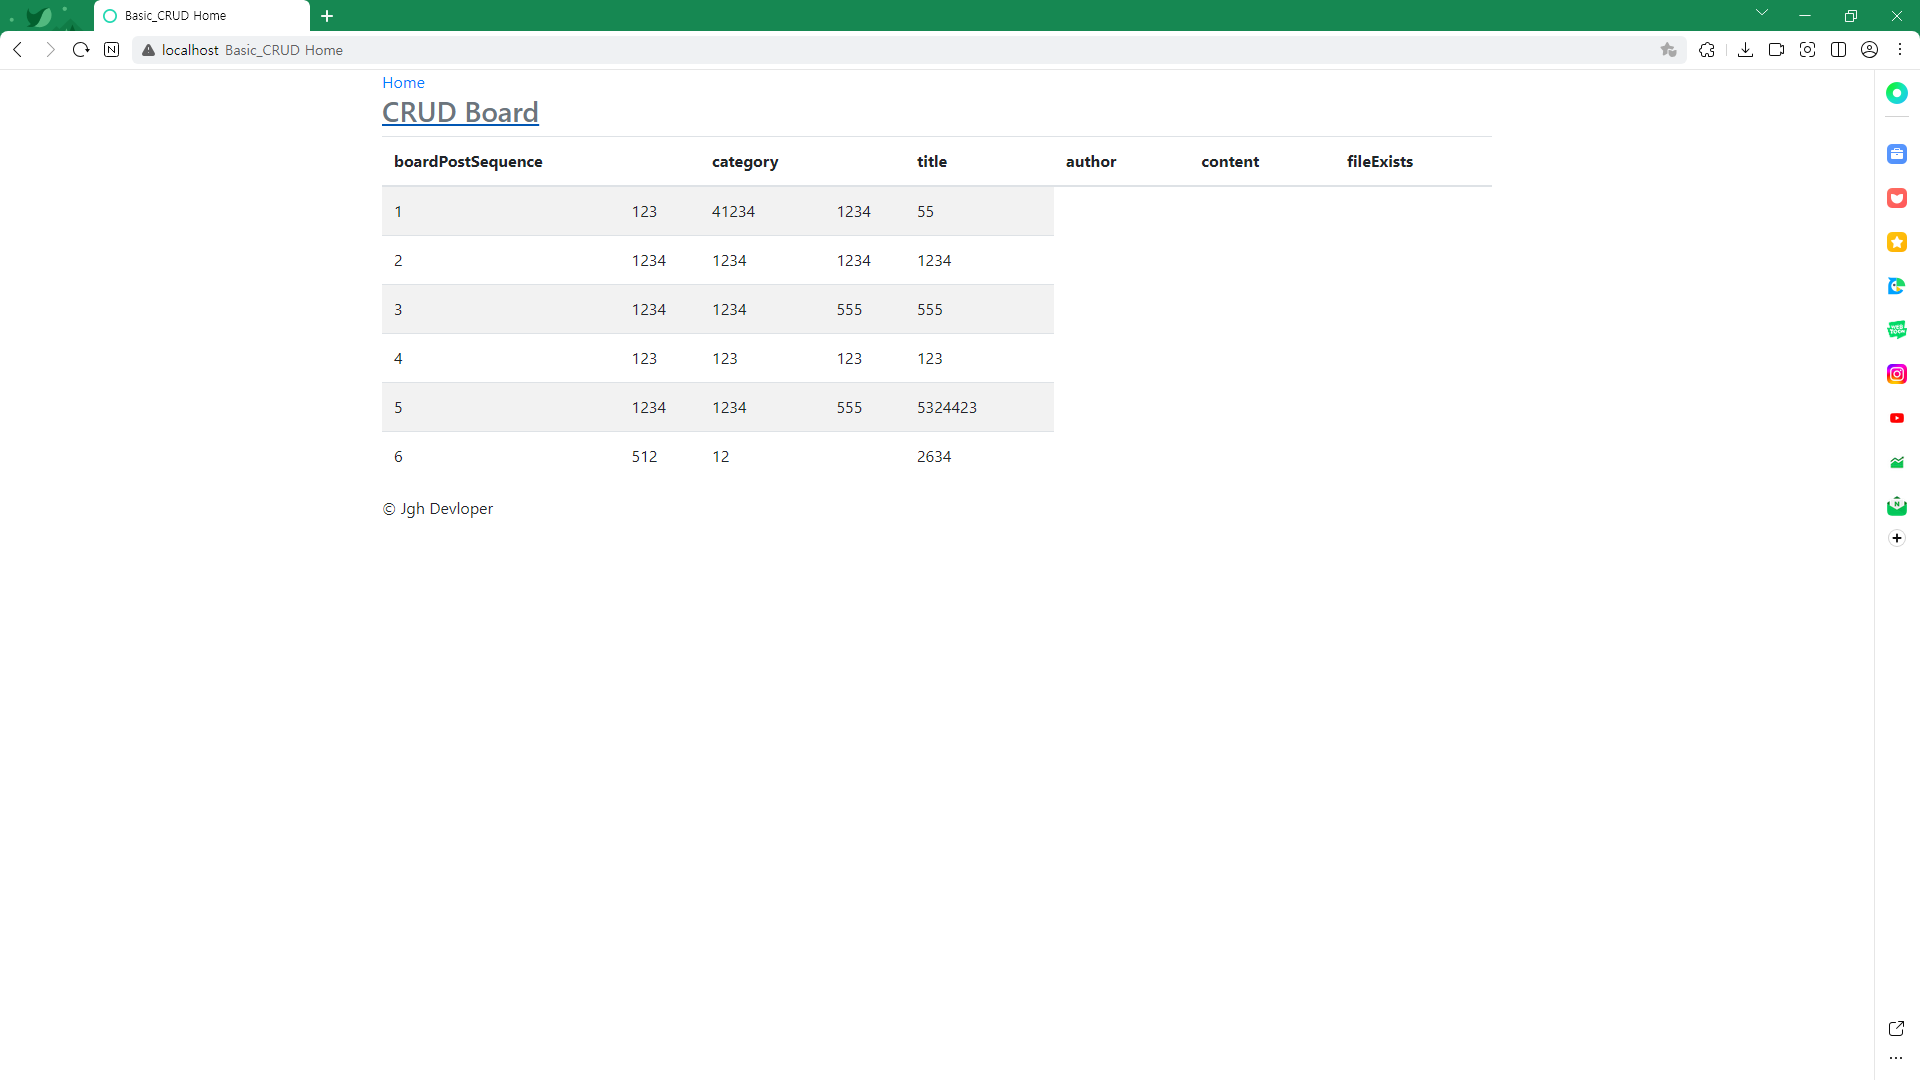
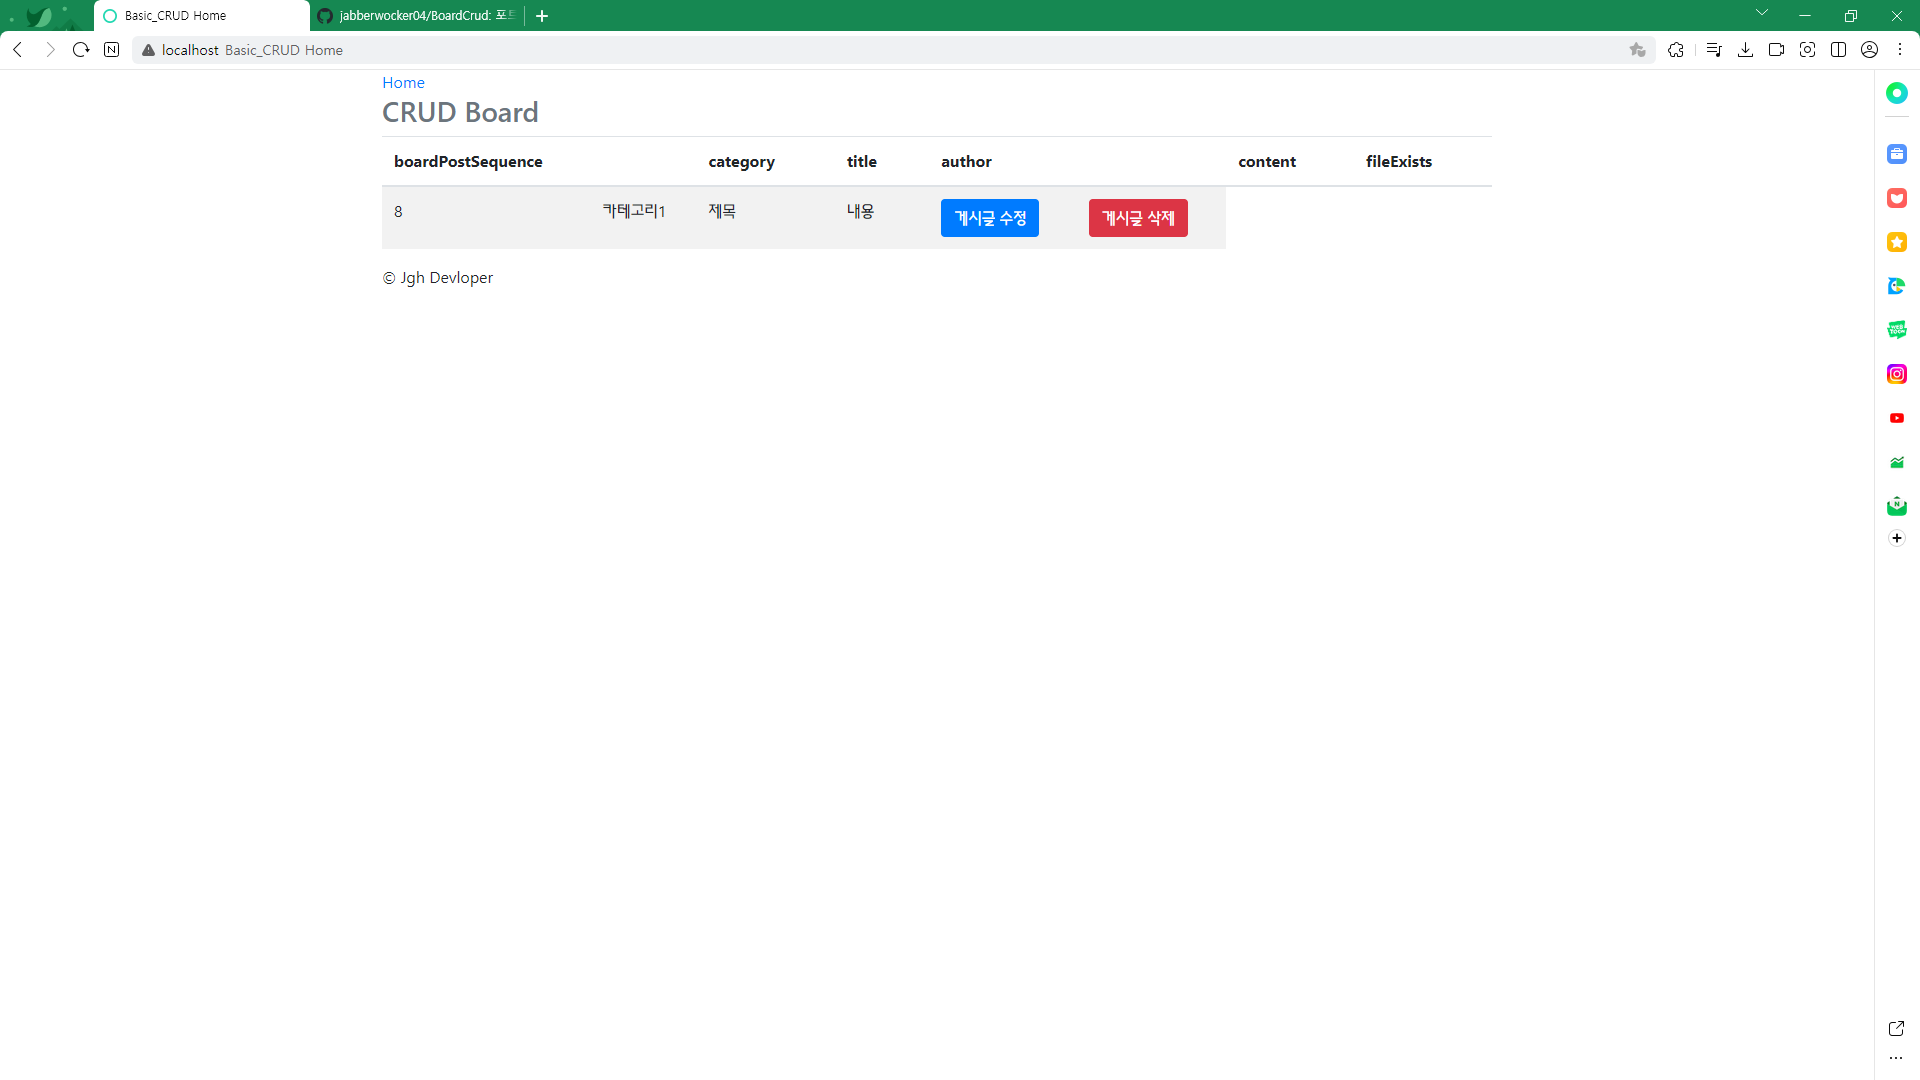
2024 10 04 Member 수정 삭제, boardPost 수정 삭제 Controller, Service, Repository 연결 및 기능 구현 | Study.MD 수정

diff --git a/src/main/resources/templates/boardPost/updatePostForm.html b/src/main/resources/templates/boardPost/updatePostForm.html
@@ -8,20 +8,20 @@
     <div>
 
 
-        <form th:object="${form}" method="post">
+        <form th:object="${boardPostForm}" method="post">
             <!-- id -->
-            <input type="hidden" th:field="*{boardSequence}" />
+            <input type="hidden" th:field="*{boardPostSequence}" />
 
             <div class="form-group">
                 <label th:for="title">제목을 수정하세요.</label>
                 <input type="text" th:field="*{title}" class="form-control" placeholder="제목" />
             </div>
             <div class="form-group">
-                <label th:for="category">category를</label>
+                <label th:for="category">category를 수정하세요</label>
                 <input type="text" th:field="*{category}" class="form-control" placeholder="category를 수정하세요" />
             </div>
             <div class="form-group">
-                <label th:for="content">content</label>
+                <label th:for="content">내용 수정</label>
                 <input type="text" th:field="*{content}" class="form-control" placeholder="내용을 수정하세요" />
             </div>
             <button type="submit" class="btn btn-primary">Submit</button>

diff --git a/src/main/resources/templates/boardPost/boardPostList.HTML b/src/main/resources/templates/boardPost/boardPostList.HTML
@@ -68,12 +68,12 @@
                 <td th:text="${boardPost.author}"></td>
                 <td th:text="${boardPost.content}"></td>
                 <td th:text="${boardPost.fileExists}"></td>
-<!--                <td>-->
-<!--                    <a href="#" th:href="@{/boardPost/{boardPostSequence}/edit (boardPostSequence=${boardPost.boardPostSequence})}" class="btn btn-primary" role="button">게시글 수정</a>-->
-<!--                </td>-->
-<!--                <td>-->
-<!--                    <a href="#" th:href="@{/boardPost/{boardPostSequence}/delete (boardPostSequence=${boardPost.boardPostSequence})}" class="btn btn-danger" role="button">게시글 삭제</a>-->
-<!--                </td>-->
+                <td>
+                    <a href="#" th:href="@{/boardPost/{boardPostSequence}/edit (boardPostSequence=${boardPost.boardPostSequence})}" class="btn btn-primary" role="button">게시글 수정</a>
+                </td>
+                <td>
+                    <a href="#" th:href="@{/boardPost/{boardPostSequence}/delete (boardPostSequence=${boardPost.boardPostSequence})}" class="btn btn-danger" role="button">게시글 삭제</a>
+                </td>
             </tr>
 
             </tbody>

diff --git a/src/main/java/CRUD/demo/boardPost/BoardPostController.java b/src/main/java/CRUD/demo/boardPost/BoardPostController.java
@@ -107,40 +107,38 @@ public class BoardPostController {
      * Update
      * */
 
-//    @GetMapping("post/{boardPostSequence}/edit")
-//    public String updateBoardPost(@PathVariable("boardPostSequence")Long boardPostSequence, Model model){ // 다 되고나서 board_sequence를 int로 바꿔봐야겠다.(15:35)
-//
-//        BoardPost boardPost = boardPostService.findOne(boardPostSequence);
-//
-//        BoardPostForm boardPostForm = new BoardPostForm();
-//        boardPostForm.setCategory(boardPostForm.getCategory());
-//
-//
-//
-//        model.addAttribute("boardPostForm", boardPostForm); // html의         <form th:object="${form}" method="post"> 부분과 attributeName 을 맞춰주어야 한다.
-//
-//        return "post/updatePostForm";
-//    }
+    @GetMapping("boardPost/{boardPostSequence}/edit")
+    public String updateBoardPost(@PathVariable("boardPostSequence")Long boardPostSequence, Model model){ // 다 되고나서 board_sequence를 int로 바꿔봐야겠다.(15:35)
 
-//    @PostMapping("post/{board_sequence}/edit")
-//    public String updateMember(@PathVariable Long boardPostSequence, @ModelAttribute("form") BoardPost boardPost){
-//
-//        boardPostService.updateBoardPost(boardPostSequence, boardPost.getCategory(), boardPost.getTitle(), boardPost.getContent());
-//
-//        return "redirect:/post/PostList";
-//    }
+        BoardPost boardPost = boardPostService.findOne(boardPostSequence);
+
+        BoardPostForm boardPostForm = new BoardPostForm();
+        boardPostForm.setCategory(boardPostForm.getCategory());
+
+        model.addAttribute("boardPostForm", boardPostForm); // html의         <form th:object="${form}" method="post"> 부분과 attributeName 을 맞춰주어야 한다.
+
+        return "boardPost/updatePostForm";
+    }
+
+    @PostMapping("boardPost/{boardPostSequence}/edit")
+    public String updateMember(@PathVariable Long boardPostSequence, @ModelAttribute("form") BoardPost boardPost){
+
+        boardPostService.updateBoardPost(boardPostSequence, boardPost.getCategory(), boardPost.getTitle(), boardPost.getContent());
+
+        return "redirect:/boardPost/boardPostList";
+    }
 
     /**
      * Delete
      * */
 
-//    @RequestMapping(value = "post/{board_sequence}/delete", method = RequestMethod.GET)
-//    public String DeleteController(@PathVariable int board_sequence){
-//        System.out.println("Delete controller 실행");
-//
-//        boardPostService.delete(board_sequence);
-//        return "redirect:/";
-//    }
+    @RequestMapping(value = "boardPost/{boardPostSequence}/delete", method = RequestMethod.GET)
+    public String DeleteController(@PathVariable Long boardPostSequence){
+        System.out.println("Delete controller 실행");
+
+        boardPostService.delete(boardPostSequence);
+        return "redirect:/";
+    }
 
 //    // 게시글 목록 페이지
 //    // 페이징 정보를 담은 Pageable 객체 // 뷰에 전달할 데이터를 담은 Model 객체

diff --git a/src/main/java/CRUD/demo/boardPost/BoardPostService.java b/src/main/java/CRUD/demo/boardPost/BoardPostService.java
@@ -84,11 +84,11 @@ public class BoardPostService {
 //        //
 //    }
 //
-//    @Transactional
-//    public void delete(int board_sequence){
-//        boardPostRepository.deleteByBoardSequence(board_sequence);
-//        System.out.println(board_sequence+"is Deleted!");
-//    }
+    @Transactional
+    public void delete(Long boardPostSequence){
+        boardPostRepository.deleteByBoardPostSequence(boardPostSequence);
+        System.out.println(boardPostSequence+"is Deleted!");
+    }
 
     @Transactional
     public void deleteFile(Long boardPostSequence, Long memberSequence){

diff --git a/README.MD b/README.MD
@@ -32,7 +32,7 @@ mysql
 <img src="/capture/image/member_new.png">
 </div>
 
-### 회원목록
+### 회원목록, 수정 및 삭제
 <div class="member_list_image">
 <img src="/capture/image/member_list.PNG">
 </div>
@@ -43,7 +43,7 @@ mysql
 </div>
 
 
-### 작성 게시글 목록
+### 작성 게시글 목록, 수정 및 삭제
 <div class="boardPost_create_image">
 <img src="/capture/image/boardPost_list.png">
 </div>
